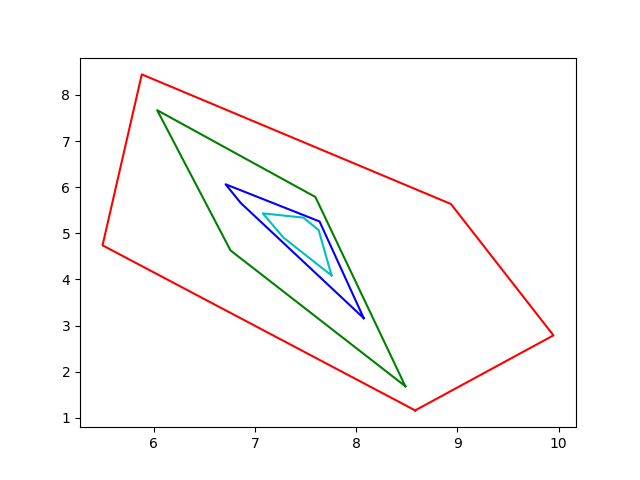
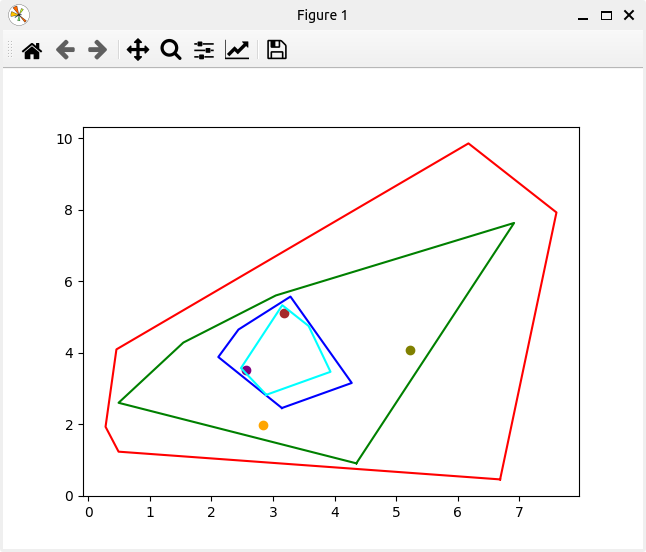
Fix syntax to match 7.2 release

diff --git a/poly.py b/poly.py
@@ -20,6 +20,14 @@ class COLOR(Enum):
     GREEN   = 'green'
     BLUE    = 'blue'
     CYAN    = 'cyan'
+    PURPLE  = 'purple'
+    BROWN   = 'brown'
+    ORANGE  = 'orange'
+    OLIVE   = 'olive'
+
+class SHAPE(Enum):
+    POLYGON = 'Polygon'
+    POINT = 'Point'
 
 class PolygonDemo(object):
     def __init__(self):
@@ -27,8 +35,8 @@ class PolygonDemo(object):
         self.client.flushdb()
 
     def demo(self) -> None:
-        """ Public function that creates 4 random polygons.  The polygons are aligned in layers such that the 4th is contained by the 3rd,
-        the 3rd by the 2nd, etc.  Each polygon is stored as a JSON object in Redis with its name and WKT parameters.  Finally, a series
+        """ Public function that creates 4 random polygons and points.  The shapes are aligned in layers such that the 4th is contained by the 3rd,
+        the 3rd by the 2nd, etc.  Each shape is stored as a JSON object in Redis with its name and WKT parameters.  Finally, a series
         of searches exercising the Redis WITHIN and CONTAINS queries are executed.  Note at the time of the writing the GEOMETRY and POLYGON
         keywords are not supported in the redis-py lib.  This function is sending raw CLI commands to Redis.
 
@@ -36,54 +44,81 @@ class PolygonDemo(object):
         -------
         None
         """
-        poly_red: Polygon = self._get_polygon()
+        poly_red: Polygon   = self._get_polygon()
         poly_green: Polygon = self._get_polygon(poly_red) 
-        poly_blue: Polygon = self._get_polygon(poly_green)
-        poly_cyan: Polygon = self._get_polygon(poly_blue)
+        poly_blue: Polygon  = self._get_polygon(poly_green)
+        poly_cyan: Polygon  = self._get_polygon(poly_blue)
+
+        point_purple: Point = self._get_point(poly_cyan)
+        point_brown: Point  = self._get_point(poly_blue)
+        point_orange: Point = self._get_point(poly_green)
+        point_olive: Point  = self._get_point(poly_red)
 
         self.client.execute_command('FT.CREATE', 'idx', 'ON', 'JSON', 'PREFIX', '1', 'key:',
-            'SCHEMA', '$.name', 'AS', 'name', 'TEXT', '$.geom', 'AS', 'geom', 'GEOMETRY')
-        self.client.json().set('key:1', '$', { "name": "Red Polygon", "geom": poly_red.wkt })
+            'SCHEMA', '$.name', 'AS', 'name', 'TEXT', '$.geom', 'AS', 'geom', 'GEOSHAPE', 'FLAT')
+        self.client.json().set('key:1', '$', { "name": "Red Polygon", "geom":   poly_red.wkt })
         self.client.json().set('key:2', '$', { "name": "Green Polygon", "geom": poly_green.wkt })
-        self.client.json().set('key:3', '$', { "name": "Blue Polygon", "geom": poly_blue.wkt })
-        self.client.json().set('key:4', '$', { "name": "Cyan Polygon", "geom": poly_cyan.wkt })
+        self.client.json().set('key:3', '$', { "name": "Blue Polygon", "geom":  poly_blue.wkt })
+        self.client.json().set('key:4', '$', { "name": "Cyan Polygon", "geom":  poly_cyan.wkt })
+        self.client.json().set('key:5', '$', { "name": "Purple Point", "geom":  point_purple.wkt })
+        self.client.json().set('key:6', '$', { "name": "Brown Point", "geom":   point_brown.wkt })
+        self.client.json().set('key:7', '$', { "name": "Orange Point", "geom":  point_orange.wkt })
+        self.client.json().set('key:8', '$', { "name": "Olive Point", "geom":   point_olive.wkt })
         
-        print('\n*** Search 1 - Polygons within the Red Polygon ***')
-        self._poly_search(QUERY.WITHIN, COLOR.RED, poly_red)
-        print('\n*** Search 2 - Polygons within the Green Polygon ***')
-        self._poly_search(QUERY.WITHIN, COLOR.GREEN, poly_green)
-        print('\n*** Search 3 - Polygons within the Blue Polygon ***')
-        self._poly_search(QUERY.WITHIN, COLOR.BLUE, poly_blue)
-        print('\n*** Search 4 - Polygons within the Cyan Polygon ***')
-        self._poly_search(QUERY.WITHIN, COLOR.CYAN, poly_cyan)
+        print('\n*** Search 1a - Polygons within the Red Polygon ***')
+        self._poly_search(QUERY.WITHIN, COLOR.RED, poly_red, SHAPE.POLYGON)
+        print('\n*** Search 1b - Points within the Red Polygon ***')
+        self._poly_search(QUERY.WITHIN, COLOR.RED, poly_red, SHAPE.POINT)
+
+        print('\n*** Search 2a - Polygons within the Green Polygon ***')
+        self._poly_search(QUERY.WITHIN, COLOR.GREEN, poly_green, SHAPE.POLYGON)
+        print('\n*** Search 2b - Points within the Green Polygon ***')
+        self._poly_search(QUERY.WITHIN, COLOR.GREEN, poly_green, SHAPE.POINT)
+
+        print('\n*** Search 3a - Polygons within the Blue Polygon ***')
+        self._poly_search(QUERY.WITHIN, COLOR.BLUE, poly_blue, SHAPE.POLYGON)
+        print('\n*** Search 3b - Points within the Blue Polygon ***')
+        self._poly_search(QUERY.WITHIN, COLOR.BLUE, poly_blue, SHAPE.POINT)
+
+        print('\n*** Search 4a - Polygons within the Cyan Polygon ***')
+        self._poly_search(QUERY.WITHIN, COLOR.CYAN, poly_cyan, SHAPE.POLYGON)
+        print('\n*** Search 4b - Points within the Cyan Polygon ***')
+        self._poly_search(QUERY.WITHIN, COLOR.CYAN, poly_cyan, SHAPE.POINT)
+
         print('\n*** Search 5 - Polygons containing the Red Polygon ***')
-        self._poly_search(QUERY.CONTAINS, COLOR.RED, poly_red)
+        self._poly_search(QUERY.CONTAINS, COLOR.RED, poly_red, SHAPE.POLYGON)
         print('\n*** Search 6 - Polygons containing the Green Polygon ***')
-        self._poly_search(QUERY.CONTAINS, COLOR.GREEN, poly_green)
+        self._poly_search(QUERY.CONTAINS, COLOR.GREEN, poly_green, SHAPE.POLYGON)
         print('\n*** Search 7 - Polygons containing the Blue Polygon ***')
-        self._poly_search(QUERY.CONTAINS, COLOR.BLUE, poly_blue)
+        self._poly_search(QUERY.CONTAINS, COLOR.BLUE, poly_blue, SHAPE.POLYGON)
         print('\n*** Search 8 - Polygons containing the Cyan Polygon ***')
-        self._poly_search(QUERY.CONTAINS, COLOR.CYAN, poly_cyan)
+        self._poly_search(QUERY.CONTAINS, COLOR.CYAN, poly_cyan, SHAPE.POLYGON)
         
         plt.plot(*poly_red.exterior.xy, c=COLOR.RED.value)
         plt.plot(*poly_green.exterior.xy, c=COLOR.GREEN.value)
         plt.plot(*poly_blue.exterior.xy, c=COLOR.BLUE.value)
         plt.plot(*poly_cyan.exterior.xy, c=COLOR.CYAN.value)
+        
+        plt.scatter(point_purple.x, point_purple.y, c=COLOR.PURPLE.value)
+        plt.scatter(point_brown.x, point_brown.y, c=COLOR.BROWN.value)
+        plt.scatter(point_orange.x, point_orange.y, c=COLOR.ORANGE.value)
+        plt.scatter(point_olive.x, point_olive.y, c=COLOR.OLIVE.value)
         plt.show()
 
-    def _poly_search(self, qt: QUERY, color: COLOR, poly: Polygon) -> None:
+    def _poly_search(self, qt: QUERY, color: COLOR, shape: Polygon, filter: SHAPE) -> None:
         """ Private function for POLYGON search in Redis. 
         Parameters
         ----------
         qt - Redis Geometry search type (contains or within)
         color - color attribute of polygon
-        polygon - Shapely polygon object
+        shape - Shapely point or polygon object
+        filter - query filter on shape types (polygon or point) to be returned
 
         Returns
         -------
         None
         """
-        results: list = self.client.execute_command('FT.SEARCH', 'idx', f'(-@name:{color.value} @geom:[{qt.value} {poly.wkt}])', 'RETURN', '1', 'name', 'DIALECT', '3')
+        results: list = self.client.execute_command('FT.SEARCH', 'idx', f'(-@name:{color.value} @name:{filter.value} @geom:[{qt.value} $qshape])', 'PARAMS', '2', 'qshape', shape.wkt, 'RETURN', '1', 'name', 'DIALECT', '3')
         if (results[0] > 0):
             for res in results:
                 if isinstance(res, list):

diff --git a/README.md b/README.md
@@ -1,8 +1,5 @@
 # Polygon Search Examples  
 
-## Blog
-https://joeywhelan.blogspot.com/2023/05/redis-polygon-search.html
-
 ## Contents
 1.  [Summary](#summary)
 2.  [Features](#features)
@@ -11,13 +8,13 @@ https://joeywhelan.blogspot.com/2023/05/redis-polygon-search.html
 5.  [Usage](#usage)
 
 ## Summary <a name="summary"></a>
-This is a Python demo of early Polygon Search capabilities available with 7.2.0-M01 Redis Stack.  This builds 4 random polygons via the Shapely module.  The 4 polygons are arranged to be layered in containment.  The polygons are stored in Redis as JSON objects.  Redis Search is then leveraged to show the WITHIN and CONTAINS query types.
+This is a Python demo of Polygon Search capabilities available with 7.2 Redis Stack.  This builds 4 random polygons and points via the Shapely module.  The 4 polygons are arranged to be layered in containment with 4 points within them.  The polygons and points are stored in Redis as JSON objects.  Redis Search is then leveraged to show the WITHIN and CONTAINS query types.
 
 
 ## Features <a name="features"></a>
-- Creates 4 random polygons and plots them on a graphical display
-- Stores the Polygons in Redis as JSON objects
-- Performs various Redis searches leveraging the WITHIN and CONTAINS queries  
+- Creates 4 random polygons + points and plots them on a graphical display
+- Stores the Polygons and Points in Redis as JSON objects
+- Performs Redis geo searches leveraging the WITHIN and CONTAINS queries  
 
 ## Prerequisites <a name="prerequisites"></a>
 - Docker Compose
@@ -47,20 +44,40 @@ python3 poly.py
 
 ### Results
 ```text
-*** Search 1 - Polygons within the Red Polygon ***
+*** Search 1a - Polygons within the Red Polygon ***
 Green Polygon
 Blue Polygon
 Cyan Polygon
 
-*** Search 2 - Polygons within the Green Polygon ***
+*** Search 1b - Points within the Red Polygon ***
+Purple Point
+Brown Point
+Orange Point
+Olive Point
+
+*** Search 2a - Polygons within the Green Polygon ***
 Blue Polygon
 Cyan Polygon
 
-*** Search 3 - Polygons within the Blue Polygon ***
+*** Search 2b - Points within the Green Polygon ***
+Purple Point
+Brown Point
+Orange Point
+Olive Point
+
+*** Search 3a - Polygons within the Blue Polygon ***
 Cyan Polygon
 
-*** Search 4 - Polygons within the Cyan Polygon ***
+*** Search 3b - Points within the Blue Polygon ***
+Purple Point
+Brown Point
+
+*** Search 4a - Polygons within the Cyan Polygon ***
 None
+
+*** Search 4b - Points within the Cyan Polygon ***
+Purple Point
+Brown Point
 
 *** Search 5 - Polygons containing the Red Polygon ***
 None
